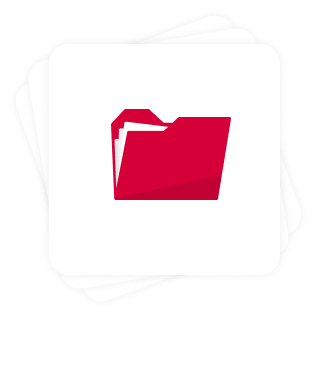
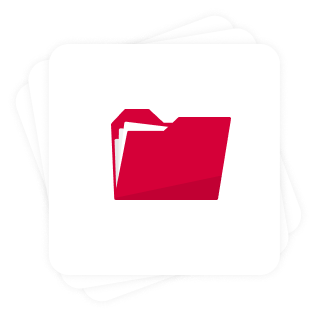
responsive for 320px

Changed region(s): [[0.3407, 0.2679, 0.7382, 0.5952]]

diff --git a/sass/_media.scss b/sass/_media.scss
@@ -947,6 +947,34 @@
         padding-bottom: 14px;
     }
 
+    .nav {
+        .nav-item {
+            width: 140px;
+            .nav-link {
+                &.active {
+                    &::after {
+                        content: '';
+                        width: 48px;
+                        margin-left: -24px;
+                    }
+                }
+            }
+        }
+    }
+    
+    .tab-pane {
+        padding: 25px 0;
+        a {
+            width: 80px;
+            font-size: $fs-22 - 10;
+            margin: 0 18px;
+            img {
+                width: 65%;
+                margin: 0 auto 14px;
+            }
+        }
+    }
+
 } 
 @media only screen and (max-width: 500px) {
 
@@ -970,6 +998,47 @@
             font-size: $font-size - 4;
             img {
                 width: 18px;
+            }
+        }
+    }
+
+    .nav {
+        flex-flow: column;
+        .nav-item {
+            width: 100%;
+            margin: 0;
+            .nav-link {
+                display: flex;
+                align-items: center;
+                justify-content: center;
+                img {
+                    width: 100px;
+                    margin-right: 15px;
+                }
+                &.active {
+                    &::after {
+                        content: '';
+                        width: 0;
+                        margin-left: 0;
+                    }
+                }
+                .circle {
+                    display: none;
+                }
+            }
+        }
+    }
+    
+    .tab-pane {
+        padding: 25px 0;
+        a {
+            width: 49%;
+            font-size: $fs-22 - 10;
+            margin: 0;
+            margin-bottom: 20px;
+            img {
+                width: 70px;
+                margin: 0 auto 8px;
             }
         }
     }

diff --git a/css/main-style.css b/css/main-style.css
@@ -747,6 +747,7 @@ main {
 .tab-pane a img {
   width: 70%;
   margin: 0 auto 32px;
+  display: block;
 }
 
 @media only screen and (max-width: 1600px) and (min-width: 1301px) {
@@ -1649,6 +1650,28 @@ main {
     font-size: 16px;
     padding-bottom: 14px;
   }
+
+  .nav .nav-item {
+    width: 140px;
+  }
+  .nav .nav-item .nav-link.active::after {
+    content: '';
+    width: 48px;
+    margin-left: -24px;
+  }
+
+  .tab-pane {
+    padding: 25px 0;
+  }
+  .tab-pane a {
+    width: 80px;
+    font-size: 12px;
+    margin: 0 18px;
+  }
+  .tab-pane a img {
+    width: 65%;
+    margin: 0 auto 14px;
+  }
 }
 @media only screen and (max-width: 500px) {
   .slider {
@@ -1671,6 +1694,54 @@ main {
   }
   #open-game__slider .btn-play-game img {
     width: 18px;
+  }
+
+  .nav {
+    -webkit-box-orient: vertical;
+    -webkit-box-direction: normal;
+        -ms-flex-flow: column;
+            flex-flow: column;
+  }
+  .nav .nav-item {
+    width: 100%;
+    margin: 0;
+  }
+  .nav .nav-item .nav-link {
+    display: -webkit-box;
+    display: -ms-flexbox;
+    display: flex;
+    -webkit-box-align: center;
+        -ms-flex-align: center;
+            align-items: center;
+    -webkit-box-pack: center;
+        -ms-flex-pack: center;
+            justify-content: center;
+  }
+  .nav .nav-item .nav-link img {
+    width: 100px;
+    margin-right: 15px;
+  }
+  .nav .nav-item .nav-link.active::after {
+    content: '';
+    width: 0;
+    margin-left: 0;
+  }
+  .nav .nav-item .nav-link .circle {
+    display: none;
+  }
+
+  .tab-pane {
+    padding: 25px 0;
+  }
+  .tab-pane a {
+    width: 49%;
+    font-size: 12px;
+    margin: 0;
+    margin-bottom: 20px;
+  }
+  .tab-pane a img {
+    width: 70px;
+    margin: 0 auto 8px;
   }
 }
 @media only screen and (max-width: 425px) {

diff --git a/game-materials.html b/game-materials.html
@@ -82,10 +82,10 @@
                 </ul>
                 <div class="tab-content d-flex justify-content-center" id="pills-tabContent">
                     <div class="tab-pane fade show active" id="pills-marketing" role="tabpanel" aria-labelledby="pills-marketing-tab">
-                        <a href="index.html" download><img src="image/game-materials/zip.png" alt="zip">Promotion Pack.zip</a>
-                        <a href="#" download><img src="image/game-materials/pdf.png" alt="pdf">GameRules.pdf</a>
-                        <a href="#" download><img src="image/game-materials/pdf.png" alt="pdf">GameInformation.pdf</a>
-                        <a href="#" download><img src="image/game-materials/pdf.png" alt="pdf">GameCover.pdf</a>
+                        <a href="#" download><img src="image/game-materials/zip.png" alt="zip">Promotion Pack.zip</a>
+                        <a href="#" download><img src="image/game-materials/pdf.png" alt="pdf">Game Rules.pdf</a>
+                        <a href="#" download><img src="image/game-materials/pdf.png" alt="pdf">Game Information.pdf</a>
+                        <a href="#" download><img src="image/game-materials/pdf.png" alt="pdf">Game Cover.pdf</a>
                     </div>
                     <div class="tab-pane fade" id="pills-logotype" role="tabpanel" aria-labelledby="pills-logotype-tab">..logotype.</div>
                     <div class="tab-pane fade" id="pills-jurisdictioons" role="tabpanel" aria-labelledby="pills-jurisdictioons-tab">..jurisdictioons.</div>

diff --git a/sass/page/_game-materials.scss b/sass/page/_game-materials.scss
@@ -58,6 +58,7 @@
         img {
             width: 70%;
             margin: 0 auto 32px;
+            display: block;
         }
     }
 }
